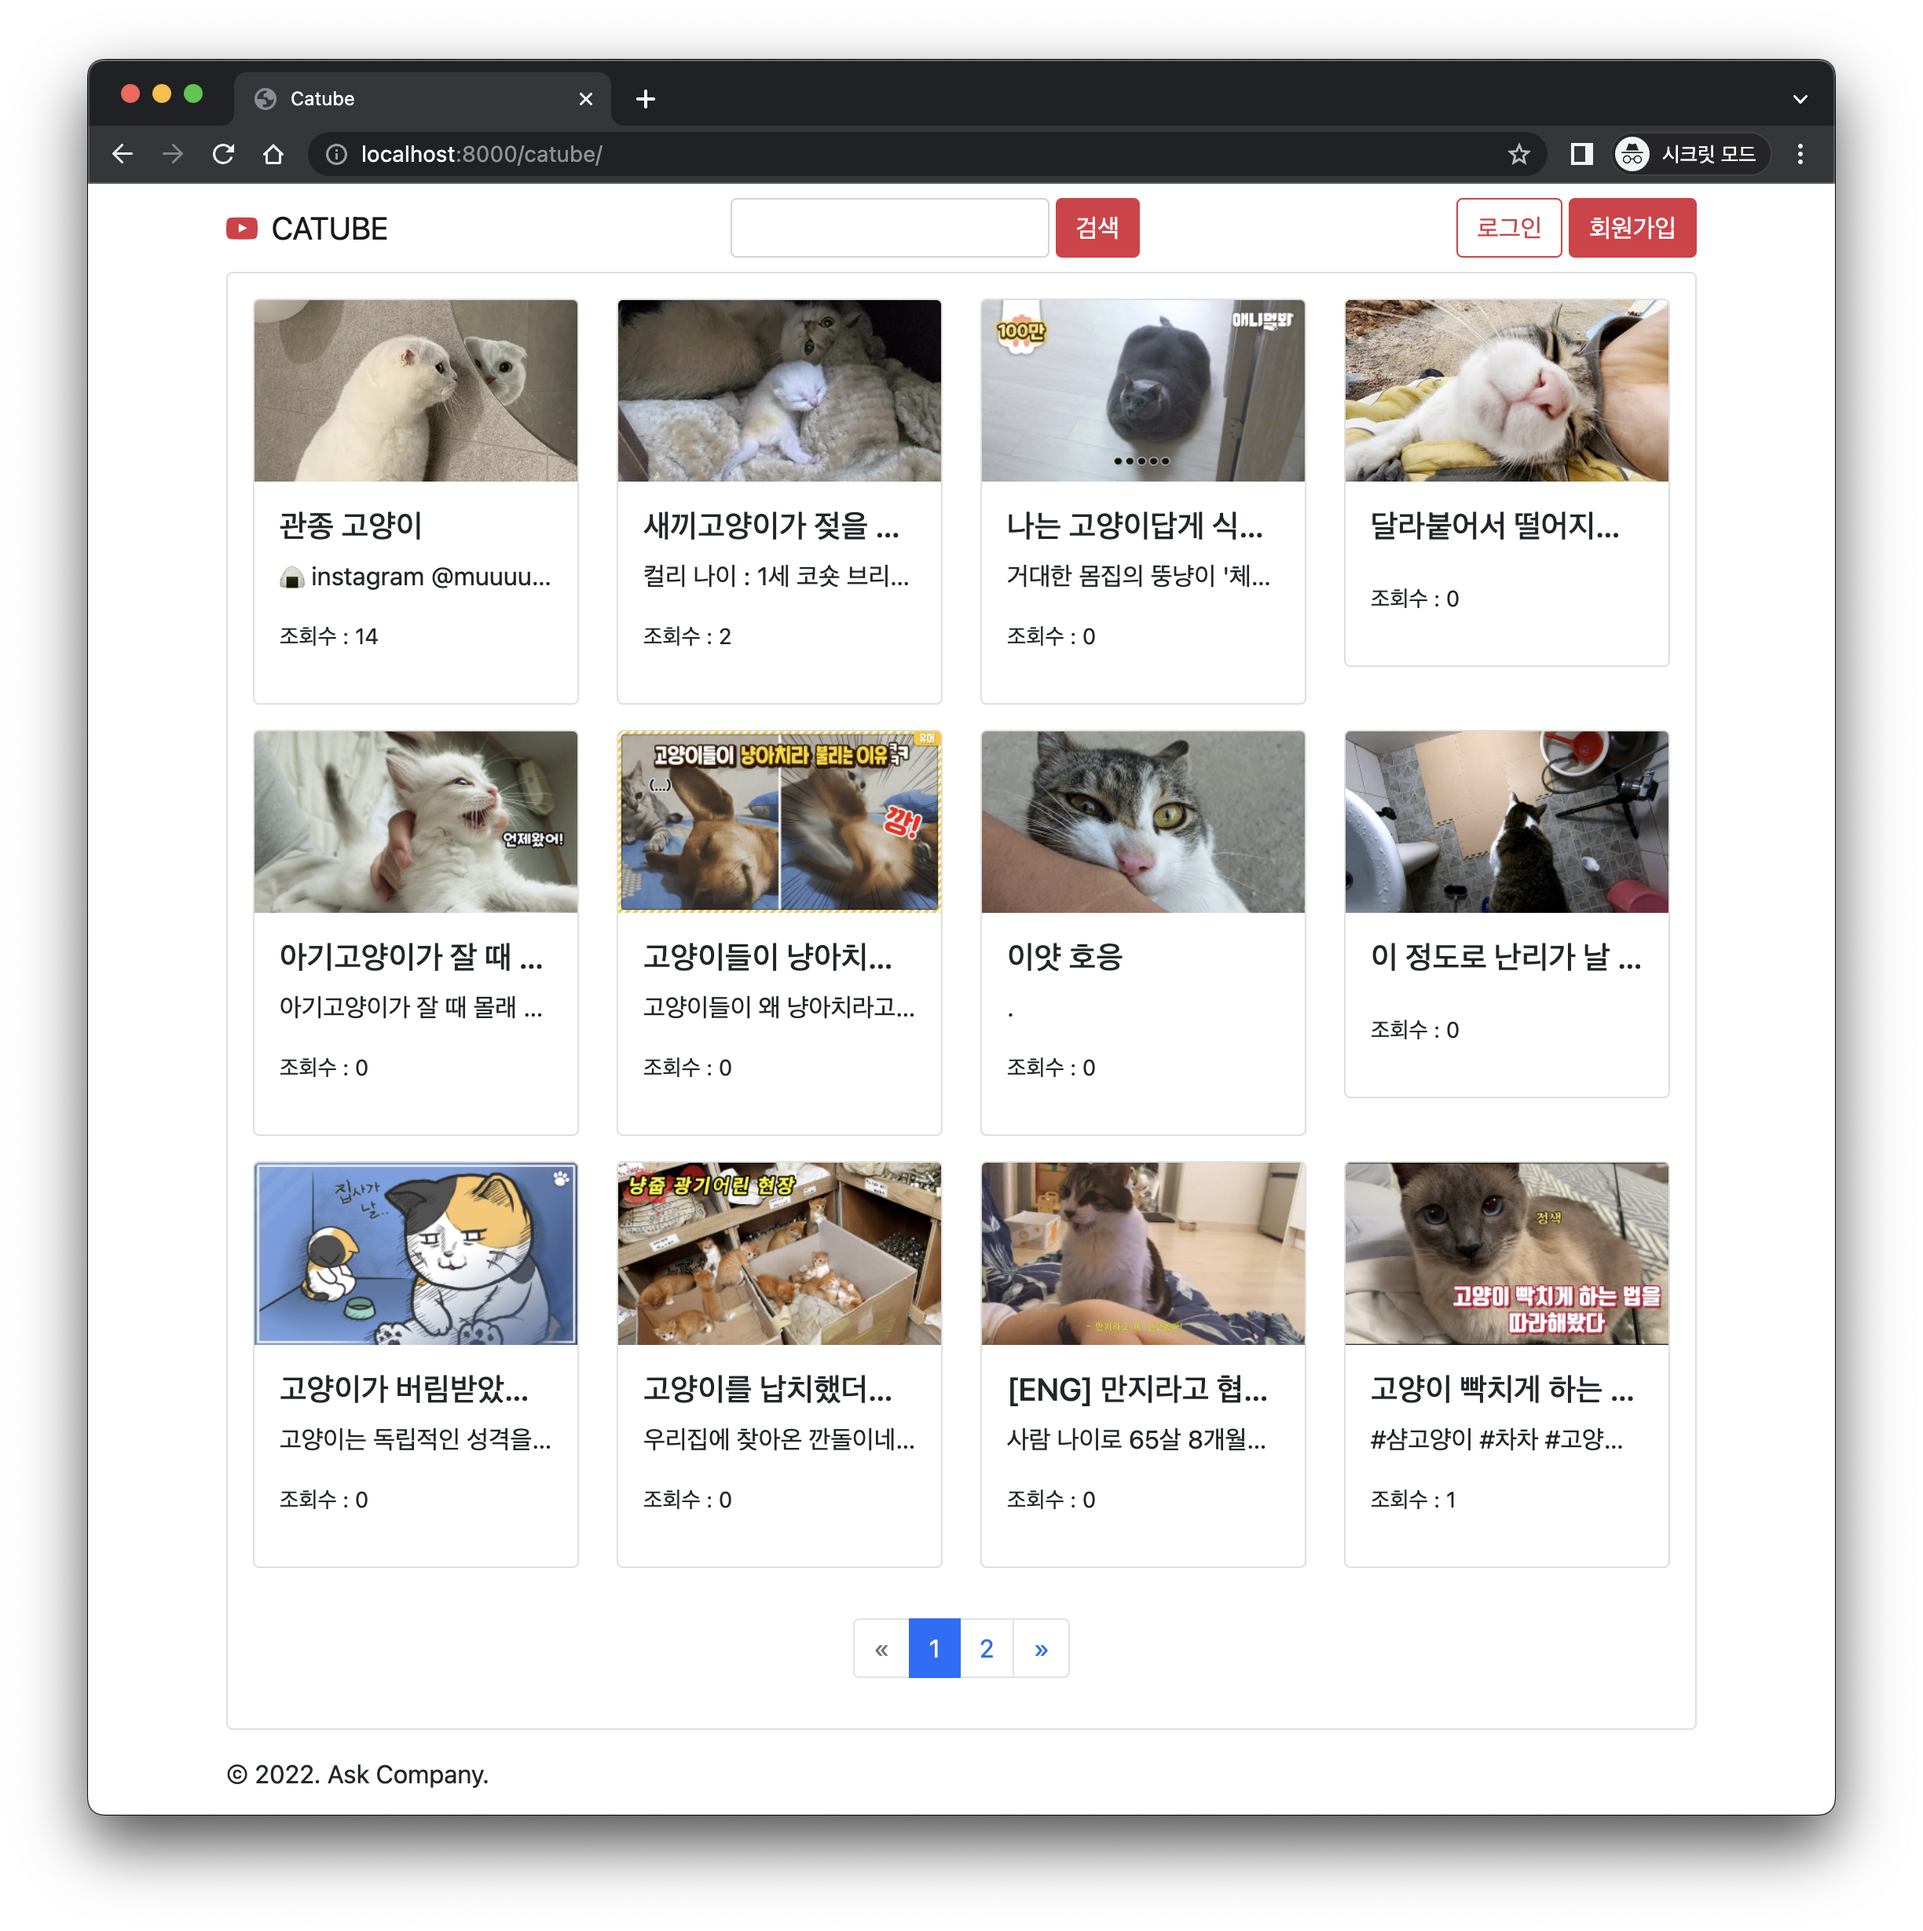
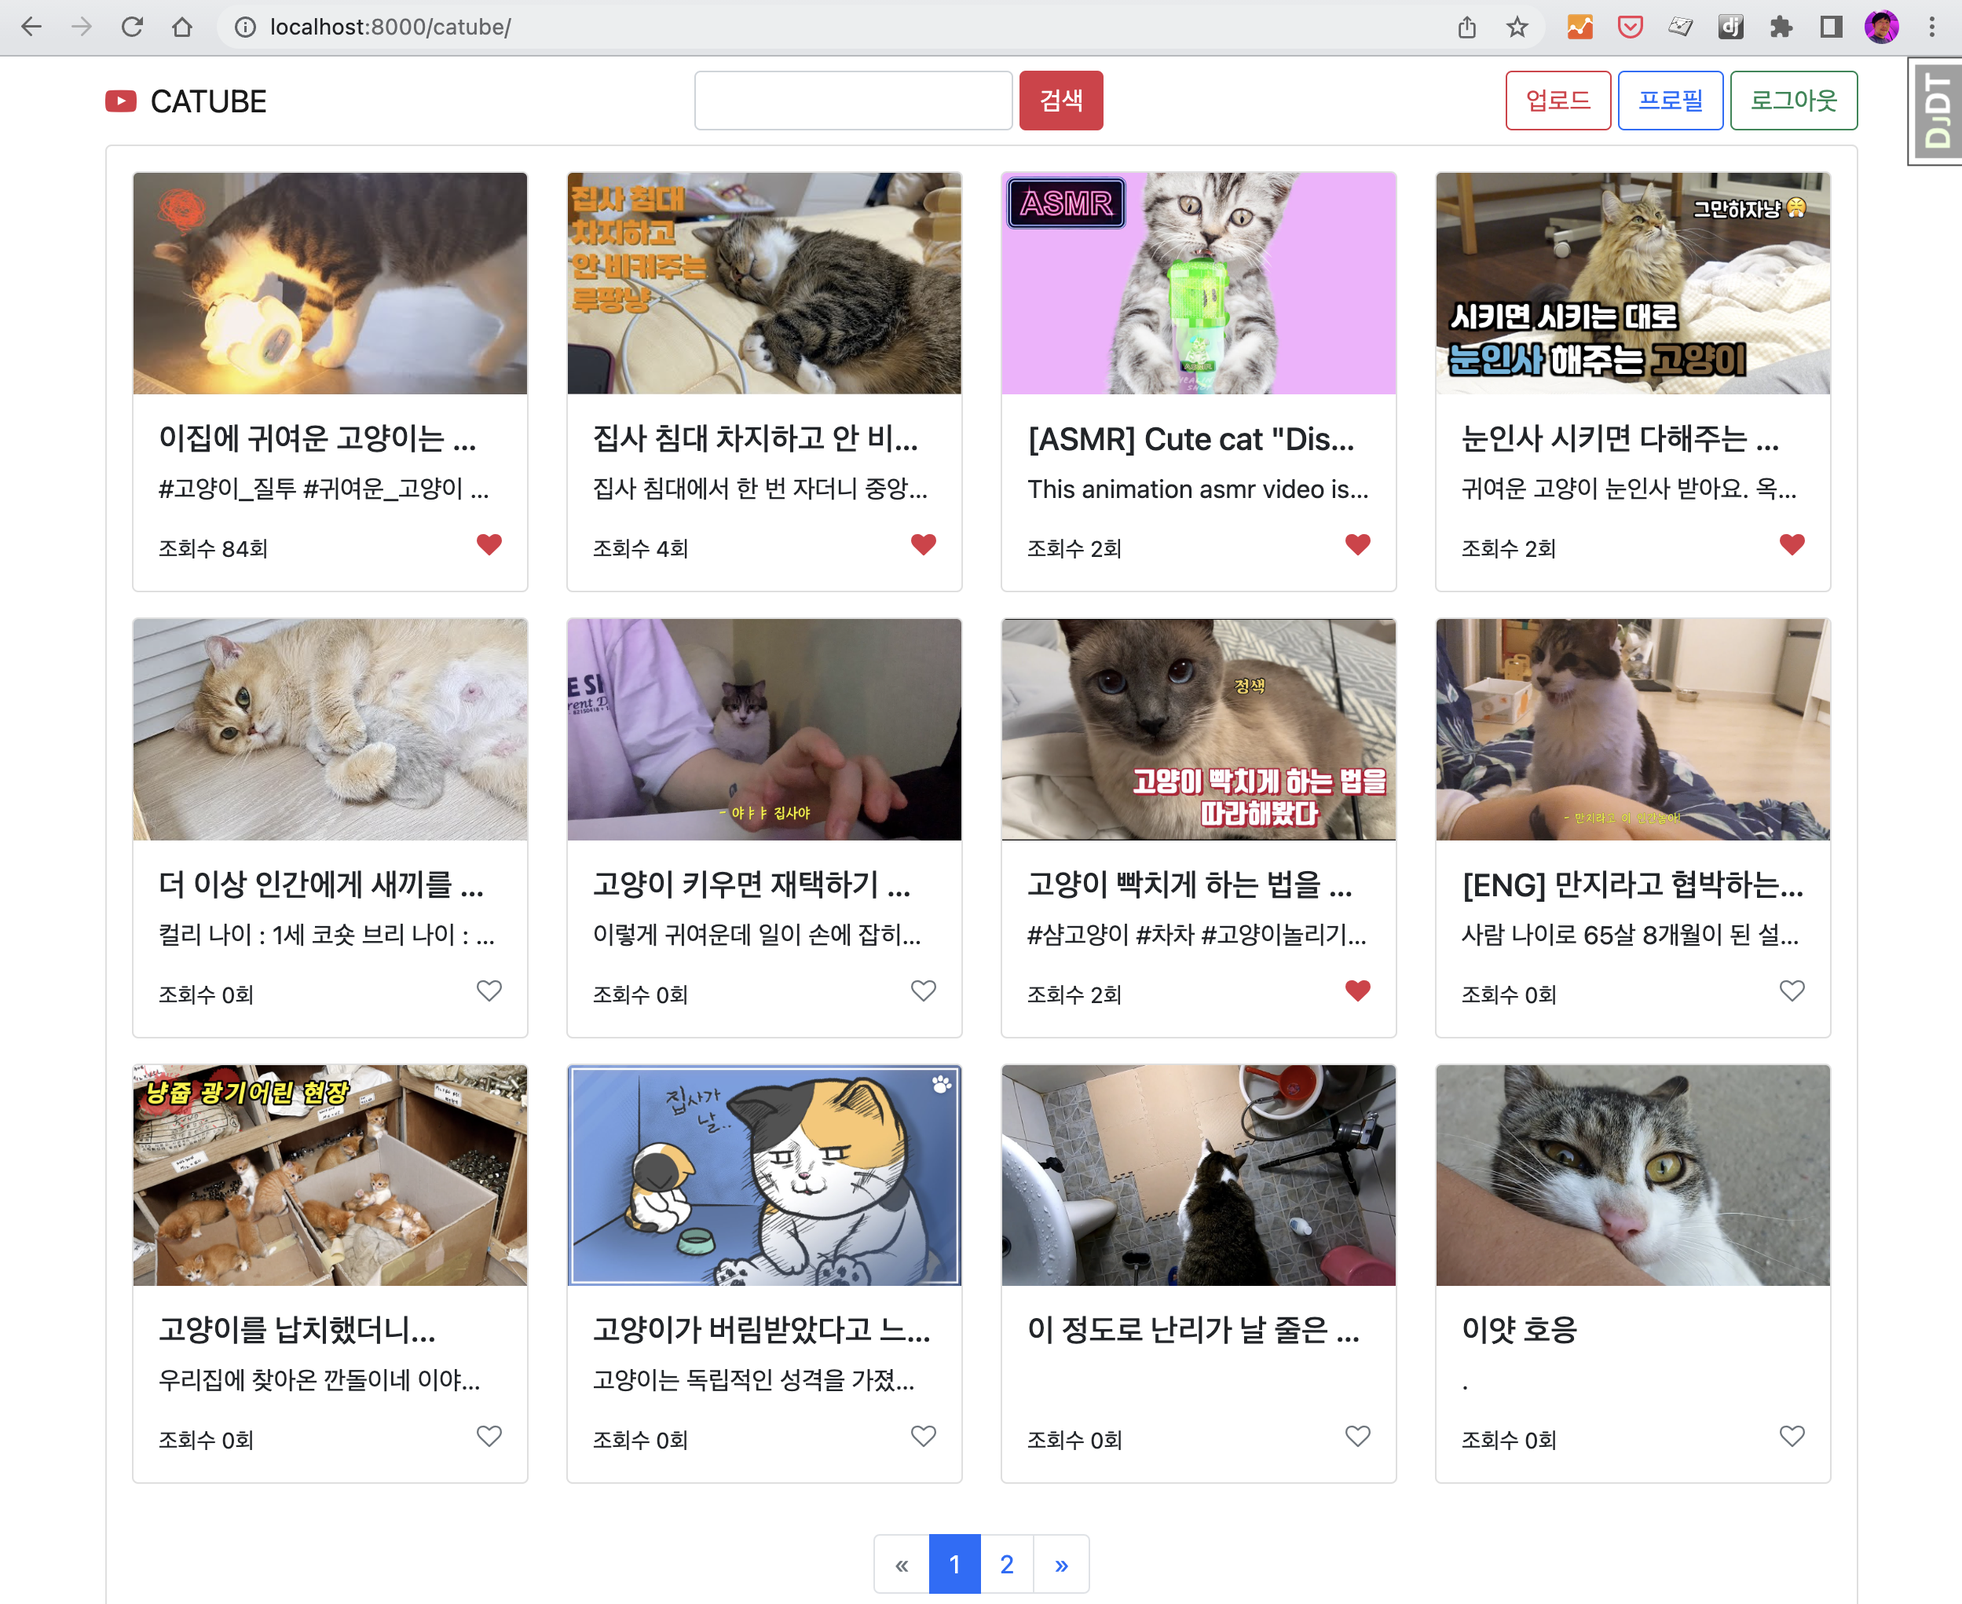
video like/dislike 구현

diff --git a/catube/templates/catube/video_detail.html b/catube/templates/catube/video_detail.html
@@ -1,17 +1,28 @@
 {% extends "layout.html" %}
-{% load bootstrap5 humanize %}
+{% load bootstrap5 catube_tags humanize %}
 
 {% block content %}
     <video controls class="w-100">
         <source src="{{ video.file.url }}" />
     </video>
 
-    <div class="d-flex justify-content-between pt-3">
+    <div class="d-xl-flex justify-content-between pt-3">
         <div>
             <h4>{{ video.title }}</h4>
             <div>조회수 {{ video.view_count|intcomma }}회</div>
         </div>
         <div>
+            {% is_liked_user video request.user as is_liked %}
+            {% if is_liked %}
+                <a href="{% url "catube:video_like" pk=video.pk action="dislike" %}" class="btn btn-outline-danger">
+                    <span class="fa fa-heart text-danger"></span> 좋아요
+                </a>
+            {% else %}
+                <a href="{% url "catube:video_like" pk=video.pk action="like" %}" class="btn btn-outline-secondary">
+                    <span class="fa fa-heart-o text-secondary"></span> 좋아요
+                </a>
+            {% endif %}
+
             {% if user == video.author %}
                 <a href="{% url 'catube:video_edit' video.pk %}" class="btn btn-danger">수정</a>
                 <a href="{% url 'catube:video_delete' video.pk %}" class="btn btn-outline-danger">삭제</a>

diff --git a/catube/templates/catube/video_list.html b/catube/templates/catube/video_list.html
@@ -18,8 +18,18 @@
                         <p class="card-text text-truncate">
                             {{ video.description|default:"&nbsp;"|truncatechars:30 }}
                         </p>
-                        <div class="text-gray small">
-                            조회수 {{ video.view_count|intcomma }}회
+
+                        <div class="d-flex align-content-center justify-content-between">
+                            <div class="text-gray small">
+                                조회수 {{ video.view_count|intcomma }}회
+                            </div>
+                            {% if request.user.is_authenticated %}
+                                {% if video.is_liked %}
+                                    <span class="fa fa-heart text-danger"></span>
+                                {% else %}
+                                    <span class="fa fa-heart-o text-secondary"></span>
+                                {% endif %}
+                            {% endif %}
                         </div>
                     </div>
                 </div>

diff --git a/catube/views.py b/catube/views.py
@@ -1,7 +1,8 @@
 from django.contrib import messages
+from django.contrib.auth import get_user_model
 from django.contrib.auth.mixins import LoginRequiredMixin, UserPassesTestMixin
-from django.db.models import F
-from django.shortcuts import get_object_or_404, resolve_url
+from django.db.models import F, Exists, OuterRef
+from django.shortcuts import get_object_or_404, resolve_url, redirect
 from django.urls import reverse_lazy
 from django.views.generic import (
     ListView,
@@ -14,6 +15,9 @@ from .models import Video, Comment
 from .forms import VideoForm, CommentForm
 
 
+User = get_user_model()
+
+
 class VideoListView(ListView):
     model = Video
     paginate_by = 12
@@ -23,6 +27,13 @@ class VideoListView(ListView):
         q = self.request.GET.get("q", "").strip()
         if q:
             qs = qs.filter(title__icontains=q)
+
+        if self.request.user.is_authenticated:
+            subquery = User.objects.filter(
+                username=self.request.user.username, liked_video_set=OuterRef("pk")
+            )
+            qs = qs.annotate(is_liked=Exists(subquery))
+
         return qs
 
 
@@ -75,6 +86,18 @@ class VideoUpdateView(UserPassesTestMixin, UpdateView):
         response = super().form_valid(form)
         messages.success(self.request, "비디오 변경내역을 저장했습니다. :D")
         return response
+
+
+class VideoLikeView(LoginRequiredMixin, DetailView):
+    model = Video
+
+    def get(self, request, *args, **kwargs):
+        video = self.get_object()
+        if self.kwargs["action"] == "like":
+            video.liked_user_set.add(request.user)
+        else:
+            video.liked_user_set.remove(request.user)
+        return redirect(video)
 
 
 class VideoDeleteView(UserPassesTestMixin, DeleteView):

diff --git a/catube/migrations/0004_alter_comment_options_alter_tag_options_and_more.py b/catube/migrations/0004_alter_comment_options_alter_tag_options_and_more.py
@@ -1,0 +1,32 @@
+# Generated by Django 4.0.3 on 2022-04-12 01:50
+
+from django.conf import settings
+from django.db import migrations, models
+
+
+class Migration(migrations.Migration):
+
+    dependencies = [
+        migrations.swappable_dependency(settings.AUTH_USER_MODEL),
+        ('catube', '0003_tag_alter_comment_id_alter_video_id_video_tag_set'),
+    ]
+
+    operations = [
+        migrations.AlterModelOptions(
+            name='comment',
+            options={'ordering': ['id']},
+        ),
+        migrations.AlterModelOptions(
+            name='tag',
+            options={'ordering': ['name']},
+        ),
+        migrations.AlterModelOptions(
+            name='video',
+            options={'ordering': ['-id']},
+        ),
+        migrations.AddField(
+            model_name='video',
+            name='liked_user_set',
+            field=models.ManyToManyField(blank=True, related_name='liked_video_set', to=settings.AUTH_USER_MODEL),
+        ),
+    ]

diff --git a/catube/urls.py b/catube/urls.py
@@ -1,4 +1,4 @@
-from django.urls import path
+from django.urls import path, re_path
 
 from . import views
 
@@ -10,6 +10,11 @@ urlpatterns = [
     path("<int:pk>/", views.VideoDetailView.as_view(), name="video_detail"),
     path("<int:pk>/edit/", views.VideoUpdateView.as_view(), name="video_edit"),
     path("<int:pk>/delete", views.VideoDeleteView.as_view(), name="video_delete"),
+    re_path(
+        r"^(?P<pk>\d+)/(?P<action>(like|dislike))/$",
+        views.VideoLikeView.as_view(),
+        name="video_like",
+    ),
     path(
         "<int:video_pk>/comments/new/",
         views.CommentCreateView.as_view(),

diff --git a/catube/models.py b/catube/models.py
@@ -13,6 +13,9 @@ class Video(models.Model):
     created_at = models.DateTimeField(auto_now_add=True)
     updated_at = models.DateTimeField(auto_now=True)
     tag_set = models.ManyToManyField("Tag", blank=True)
+    liked_user_set = models.ManyToManyField(
+        settings.AUTH_USER_MODEL, blank=True, related_name="liked_video_set"
+    )
 
     def get_absolute_url(self):
         return reverse("catube:video_detail", args=[self.pk])

diff --git a/catube/templatetags/catube_tags.py b/catube/templatetags/catube_tags.py
@@ -1,0 +1,9 @@
+from django import template
+
+
+register = template.Library()
+
+
+@register.simple_tag
+def is_liked_user(video, user):
+    return video.liked_user_set.filter(username=user.username).exists()
